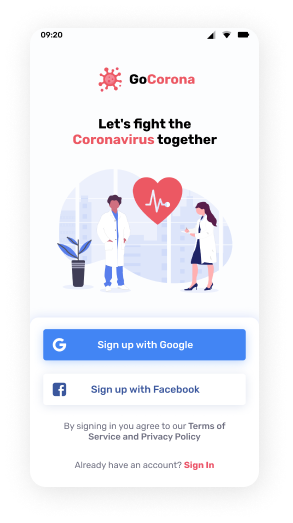
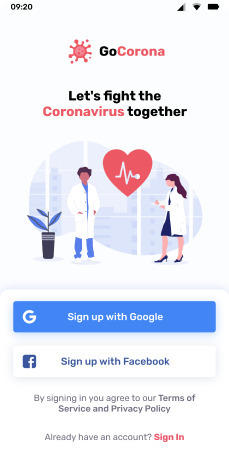
ed: section stay-safe

diff --git a/src/styles/stay-safe.scss b/src/styles/stay-safe.scss
@@ -1,0 +1,73 @@
+.stay-safe {
+	padding: 80px 0;
+
+	&__container {
+		display: flex;
+		align-items: center;
+	}
+
+	&__media {
+		flex: 0 1 48%;
+		padding: 0 0 0 47px;
+	}
+
+	&__content {
+		flex: 0 1 52%;
+	}
+
+	&__block-text {
+	}
+}
+
+.media-stay-safe {
+	position: relative;
+	width: 373px;
+	padding: 56px 0 27px 0;
+	text-align: center;
+	&__image {
+		position: relative;
+		display: inline-block;
+		box-shadow: 2px 4px 32px rgba(0, 0, 0, 0.12);
+		border-radius: 16px;
+		img {
+			position: relative;
+			z-index: 2;
+		}
+		&::after {
+			content: "";
+			position: absolute;
+			left: 12px;
+			bottom: -12px;
+			width: 206px;
+			height: 27px;
+			border-radius: 16px;
+			background: rgba(240, 240, 240, 0.49);
+			z-index: 1;
+		}
+	}
+
+	&__decor {
+		position: absolute;
+		width: 77px;
+		height: 77px;
+		border-radius: 30px;
+		background: $main-color;
+	}
+
+	&__decor-1 {
+		width: 147px;
+		height: 147px;
+		top: 0;
+		left: 0;
+	}
+
+	&__decor-2 {
+		left: 32px;
+		bottom: 0;
+	}
+
+	&__decor-3 {
+		right: 34px;
+		bottom: 107px;
+	}
+}

diff --git a/src/blocks/stay-safe.html b/src/blocks/stay-safe.html
@@ -1,8 +1,17 @@
 <section class="stay-safe">
+
 	<div class="stay-safe__container">
 		<div class="stay-safe__media">
-			<img src="@img/stay-safe/app.png" alt="Stay safe with GoCorona.">
+			<div class="media-stay-safe">
+				<div class="media-stay-safe__image">
+					<img src="@img/stay-safe/app.png" alt="Stay safe with GoCorona.">
+				</div>
+				<div class="media-stay-safe__decor media-stay-safe__decor-1"></div>
+				<div class="media-stay-safe__decor media-stay-safe__decor-2"></div>
+				<div class="media-stay-safe__decor media-stay-safe__decor-3"></div>
+			</div>
 		</div>
+		
 		<div class="stay-safe__content">
 			<div class="stay-safe__block-text block-text">
 				<h2 class="block-text__title">
@@ -14,5 +23,6 @@
 				<a href="#" class="block-text__button button">Features</a>
 			</div>
 		</div>
+		
 	</div>
 </section>
